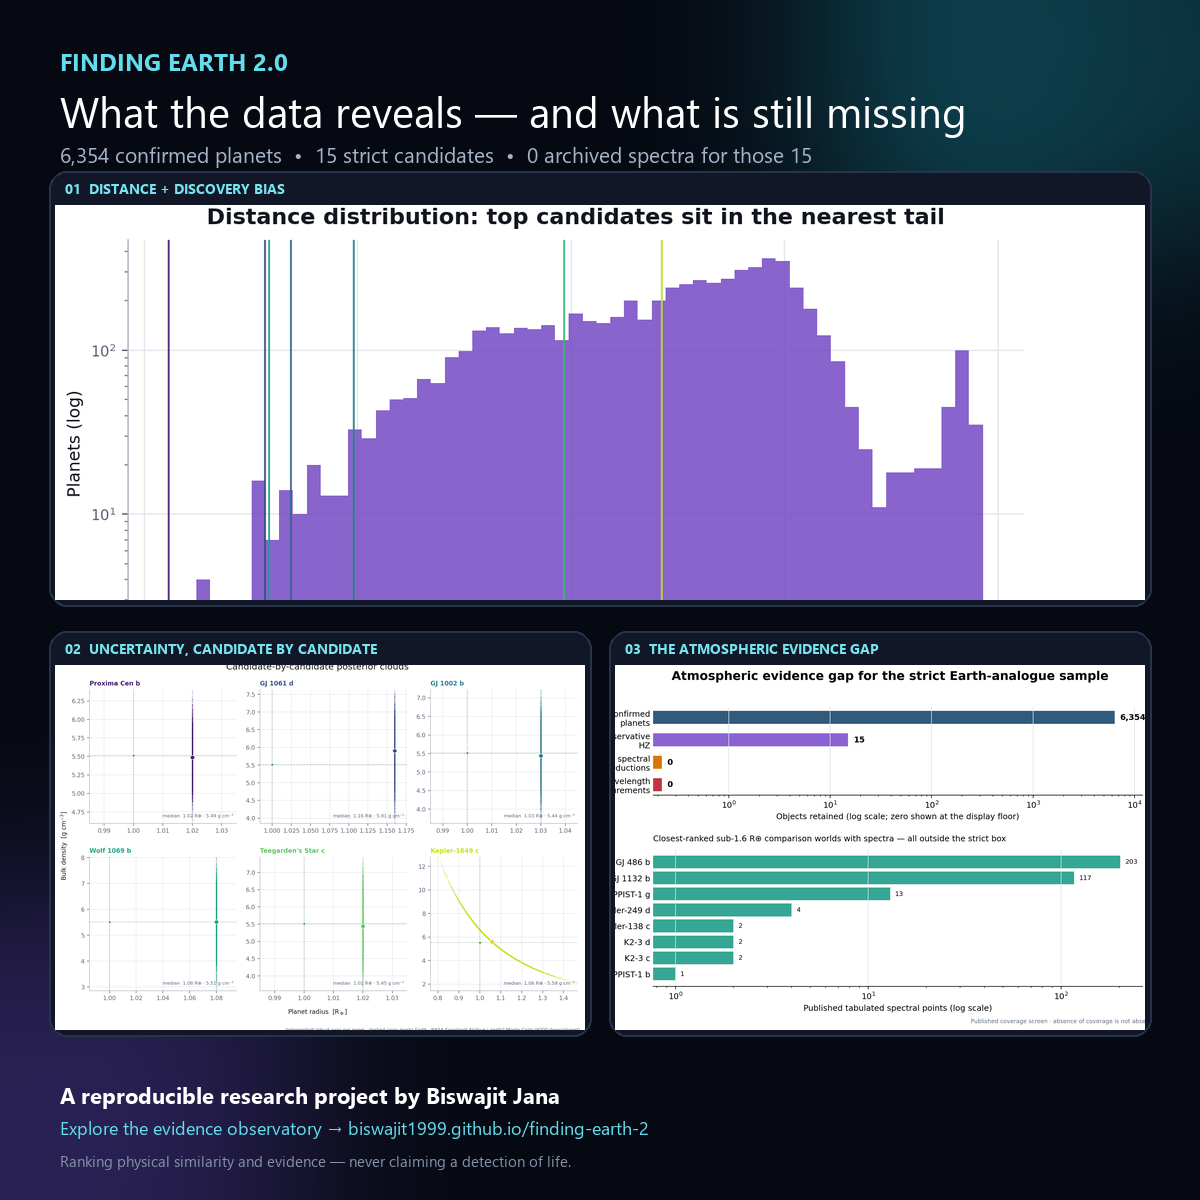
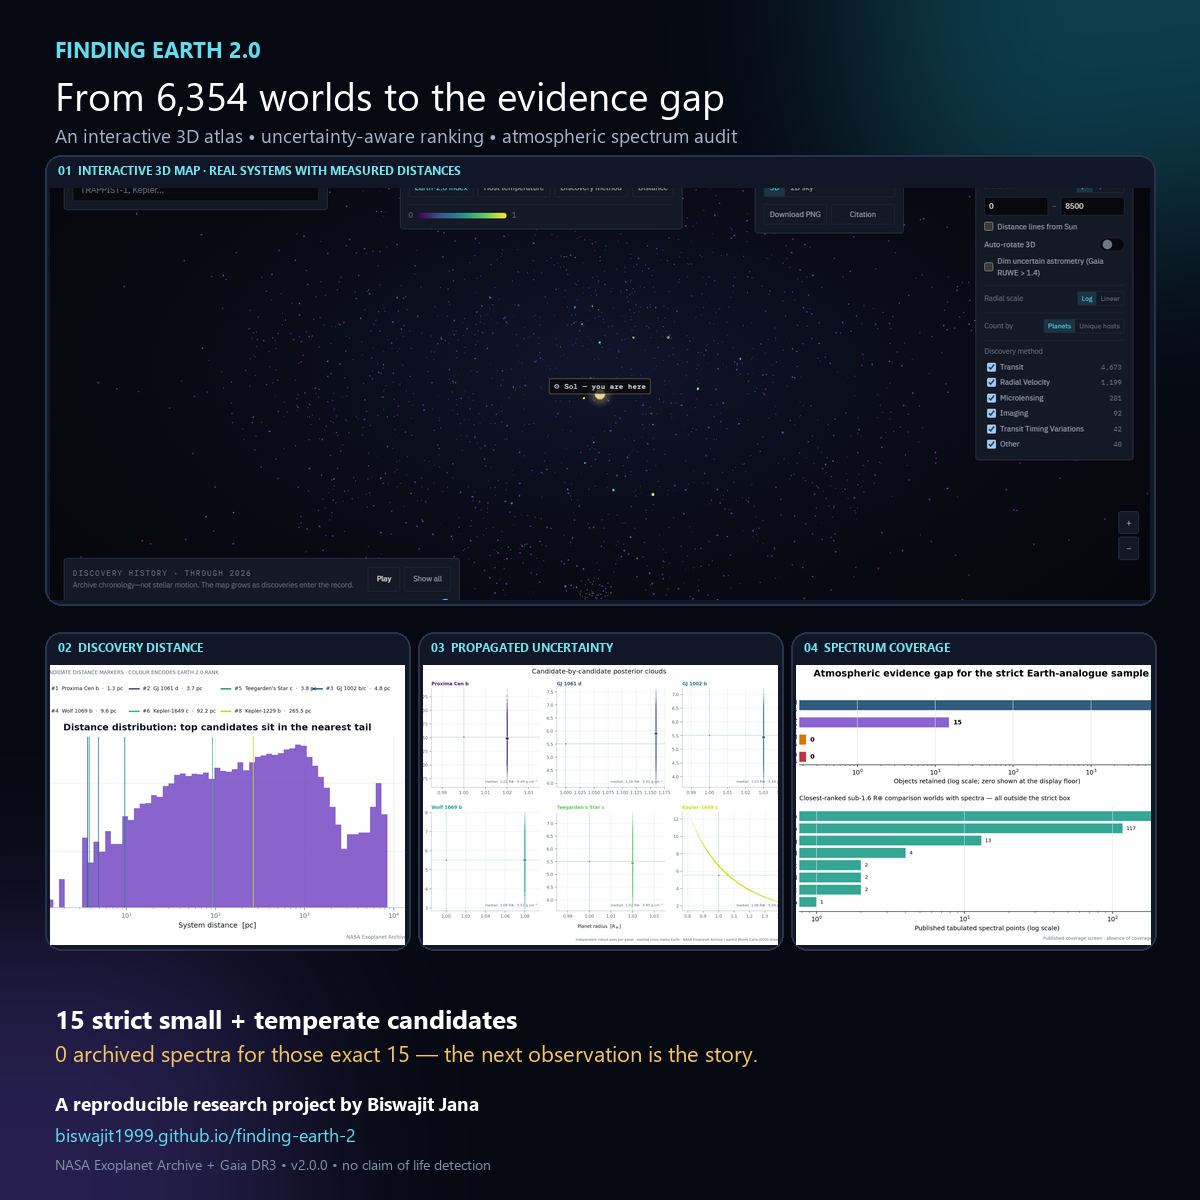
Add 3D social visual and cited plot downloads

diff --git a/web/components/universe/UniverseExplorer.tsx b/web/components/universe/UniverseExplorer.tsx
@@ -21,7 +21,17 @@ import { SkyProjection } from "@/components/universe/SkyProjection";
 import { DiscoveryTimelineCharts } from "@/components/universe/DiscoveryTimelineCharts";
 import type { DiscoveryTimelineFile, UniverseFile } from "@/lib/types";
 import { compactInt, EMDASH, int, num, slugify, utcLabel } from "@/lib/format";
-import { downloadCsv } from "@/lib/csv";
+
+const PLOT_CITATION = `Jana, Biswajit (2026). Finding Earth 2.0: an evidence-labelled search across public astronomical archives (v2.0.0). https://github.com/Biswajit1999/finding-earth-2. Data: NASA Exoplanet Archive and Gaia DR3. Accessed ${new Date().toISOString().slice(0, 10)}.`;
+
+function downloadBlob(filename: string, blob: Blob): void {
+  const url = URL.createObjectURL(blob);
+  const anchor = document.createElement("a");
+  anchor.href = url;
+  anchor.download = filename;
+  anchor.click();
+  URL.revokeObjectURL(url);
+}
 
 /** The subset of three-stdlib's OrbitControls this component actually drives. */
 interface OrbitControlsHandle {
@@ -165,6 +175,7 @@ export function UniverseExplorer({
   const [ready, setReady] = useState(false);
   const [viewMode, setViewMode] = useState<"3d" | "2d">("3d");
   const controlsRef = useRef<OrbitControlsHandle | null>(null);
+  const renderRef = useRef<HTMLDivElement | null>(null);
 
   // WebGL failure forces the 2D projection rather than a dead end: same real
   // data, a projection that needs no WebGL at all. The 2D view never shows a
@@ -274,28 +285,30 @@ export function UniverseExplorer({
     return { mask, nVisible };
   }, [data, distRange, activeMethods, discoveryYear, maxDiscoveryYear, countMode]);
 
-  const handleDownloadCsv = () => {
-    const headers = [
-      "name", "host", "method", "dist_pc", "disc_year",
-      "earth2_index", "esi", "gaia_ruwe", "gal_l_deg", "gal_b_deg",
-    ];
-    const rows: (string | number | null)[][] = [];
-    for (let i = 0; i < data.n_points; i++) {
-      if (!filterMask.mask[i]) continue;
-      rows.push([
-        data.name[i],
-        data.host[i],
-        data.method[i],
-        data.dist_pc[i],
-        data.disc_year[i],
-        data.earth2_index[i],
-        data.esi[i],
-        data.gaia_ruwe[i],
-        data.gal_l_deg[i],
-        data.gal_b_deg[i],
-      ]);
+  const handleDownloadPlot = () => {
+    const surface = renderRef.current;
+    const canvas = surface?.querySelector("canvas");
+    if (canvas) {
+      canvas.toBlob((blob) => {
+        if (blob) downloadBlob("finding-earth-2-3d-universe.png", blob);
+      }, "image/png");
+      return;
     }
-    downloadCsv("finding-earth-2-universe-filtered.csv", headers, rows);
+    const svg = surface?.querySelector("svg");
+    if (svg) {
+      const source = new XMLSerializer().serializeToString(svg);
+      downloadBlob(
+        "finding-earth-2-sky-projection.svg",
+        new Blob([source], { type: "image/svg+xml;charset=utf-8" }),
+      );
+    }
+  };
+
+  const handleDownloadCitation = () => {
+    downloadBlob(
+      "finding-earth-2-plot-citation.txt",
+      new Blob([PLOT_CITATION + "\n"], { type: "text/plain;charset=utf-8" }),
+    );
   };
 
   const filtersActive =
@@ -316,11 +329,12 @@ export function UniverseExplorer({
             "radial-gradient(ellipse at 50% 45%, #10152a 0%, #090b16 45%, #05060b 100%)",
         }}
       >
+        <div ref={renderRef} data-testid="universe-render-surface" className="absolute inset-0">
         {effectiveViewMode === "3d" && (
           <Canvas
             camera={{ position: [0, 1.1, 5.2], fov: 55 }}
             dpr={[1, 1.75]}
-            gl={{ antialias: true, alpha: true, powerPreference: "high-performance" }}
+            gl={{ antialias: true, alpha: true, preserveDrawingBuffer: true, powerPreference: "high-performance" }}
             onCreated={({ gl, raycaster }) => {
               // Transparent so the container's own radial gradient (a soft
               // haze, not flat black) shows behind the points instead of being
@@ -379,6 +393,7 @@ export function UniverseExplorer({
             flagLowConfidenceAstrometry={flagRuwe}
           />
         )}
+        </div>
 
         {/* ---------------- branded loading veil ---------------- */}
         <div
@@ -503,8 +518,6 @@ export function UniverseExplorer({
                 )}
               </div>
             )}
-            </div>
-
             <div className="pointer-events-auto panel-raised p-3">
               <p className="eyebrow mb-1.5">Colour by</p>
               <div className="flex flex-wrap gap-1.5">
@@ -564,13 +577,22 @@ export function UniverseExplorer({
                   different projection.
                 </p>
               )}
-              <button
-                type="button"
-                onClick={handleDownloadCsv}
-                className="mt-2.5 w-full cursor-pointer rounded-[var(--radius-sm)] border border-[var(--color-line-strong)] px-2 py-1.5 text-[11px] text-[var(--color-dim)] hover:border-[var(--color-cyan)] hover:text-[var(--color-cyan)]"
-              >
-                Download CSV ({compactInt(filterMask.nVisible)})
-              </button>
+              <div className="mt-2.5 grid grid-cols-2 gap-1.5">
+                <button
+                  type="button"
+                  onClick={handleDownloadPlot}
+                  className="cursor-pointer rounded-[var(--radius-sm)] border border-[var(--color-line-strong)] px-2 py-1.5 text-[11px] text-[var(--color-dim)] hover:border-[var(--color-cyan)] hover:text-[var(--color-cyan)]"
+                >
+                  Download {effectiveViewMode === "3d" ? "PNG" : "SVG"}
+                </button>
+                <button
+                  type="button"
+                  onClick={handleDownloadCitation}
+                  className="cursor-pointer rounded-[var(--radius-sm)] border border-[var(--color-line-strong)] px-2 py-1.5 text-[11px] text-[var(--color-dim)] hover:border-[var(--color-cyan)] hover:text-[var(--color-cyan)]"
+                >
+                  Citation
+                </button>
+              </div>
             </div>
 
             <div className="pointer-events-auto panel-raised w-[230px] p-3">
@@ -779,6 +801,7 @@ export function UniverseExplorer({
                   </label>
                 ))}
               </div>
+            </div>
             </div>
           </div>
 
